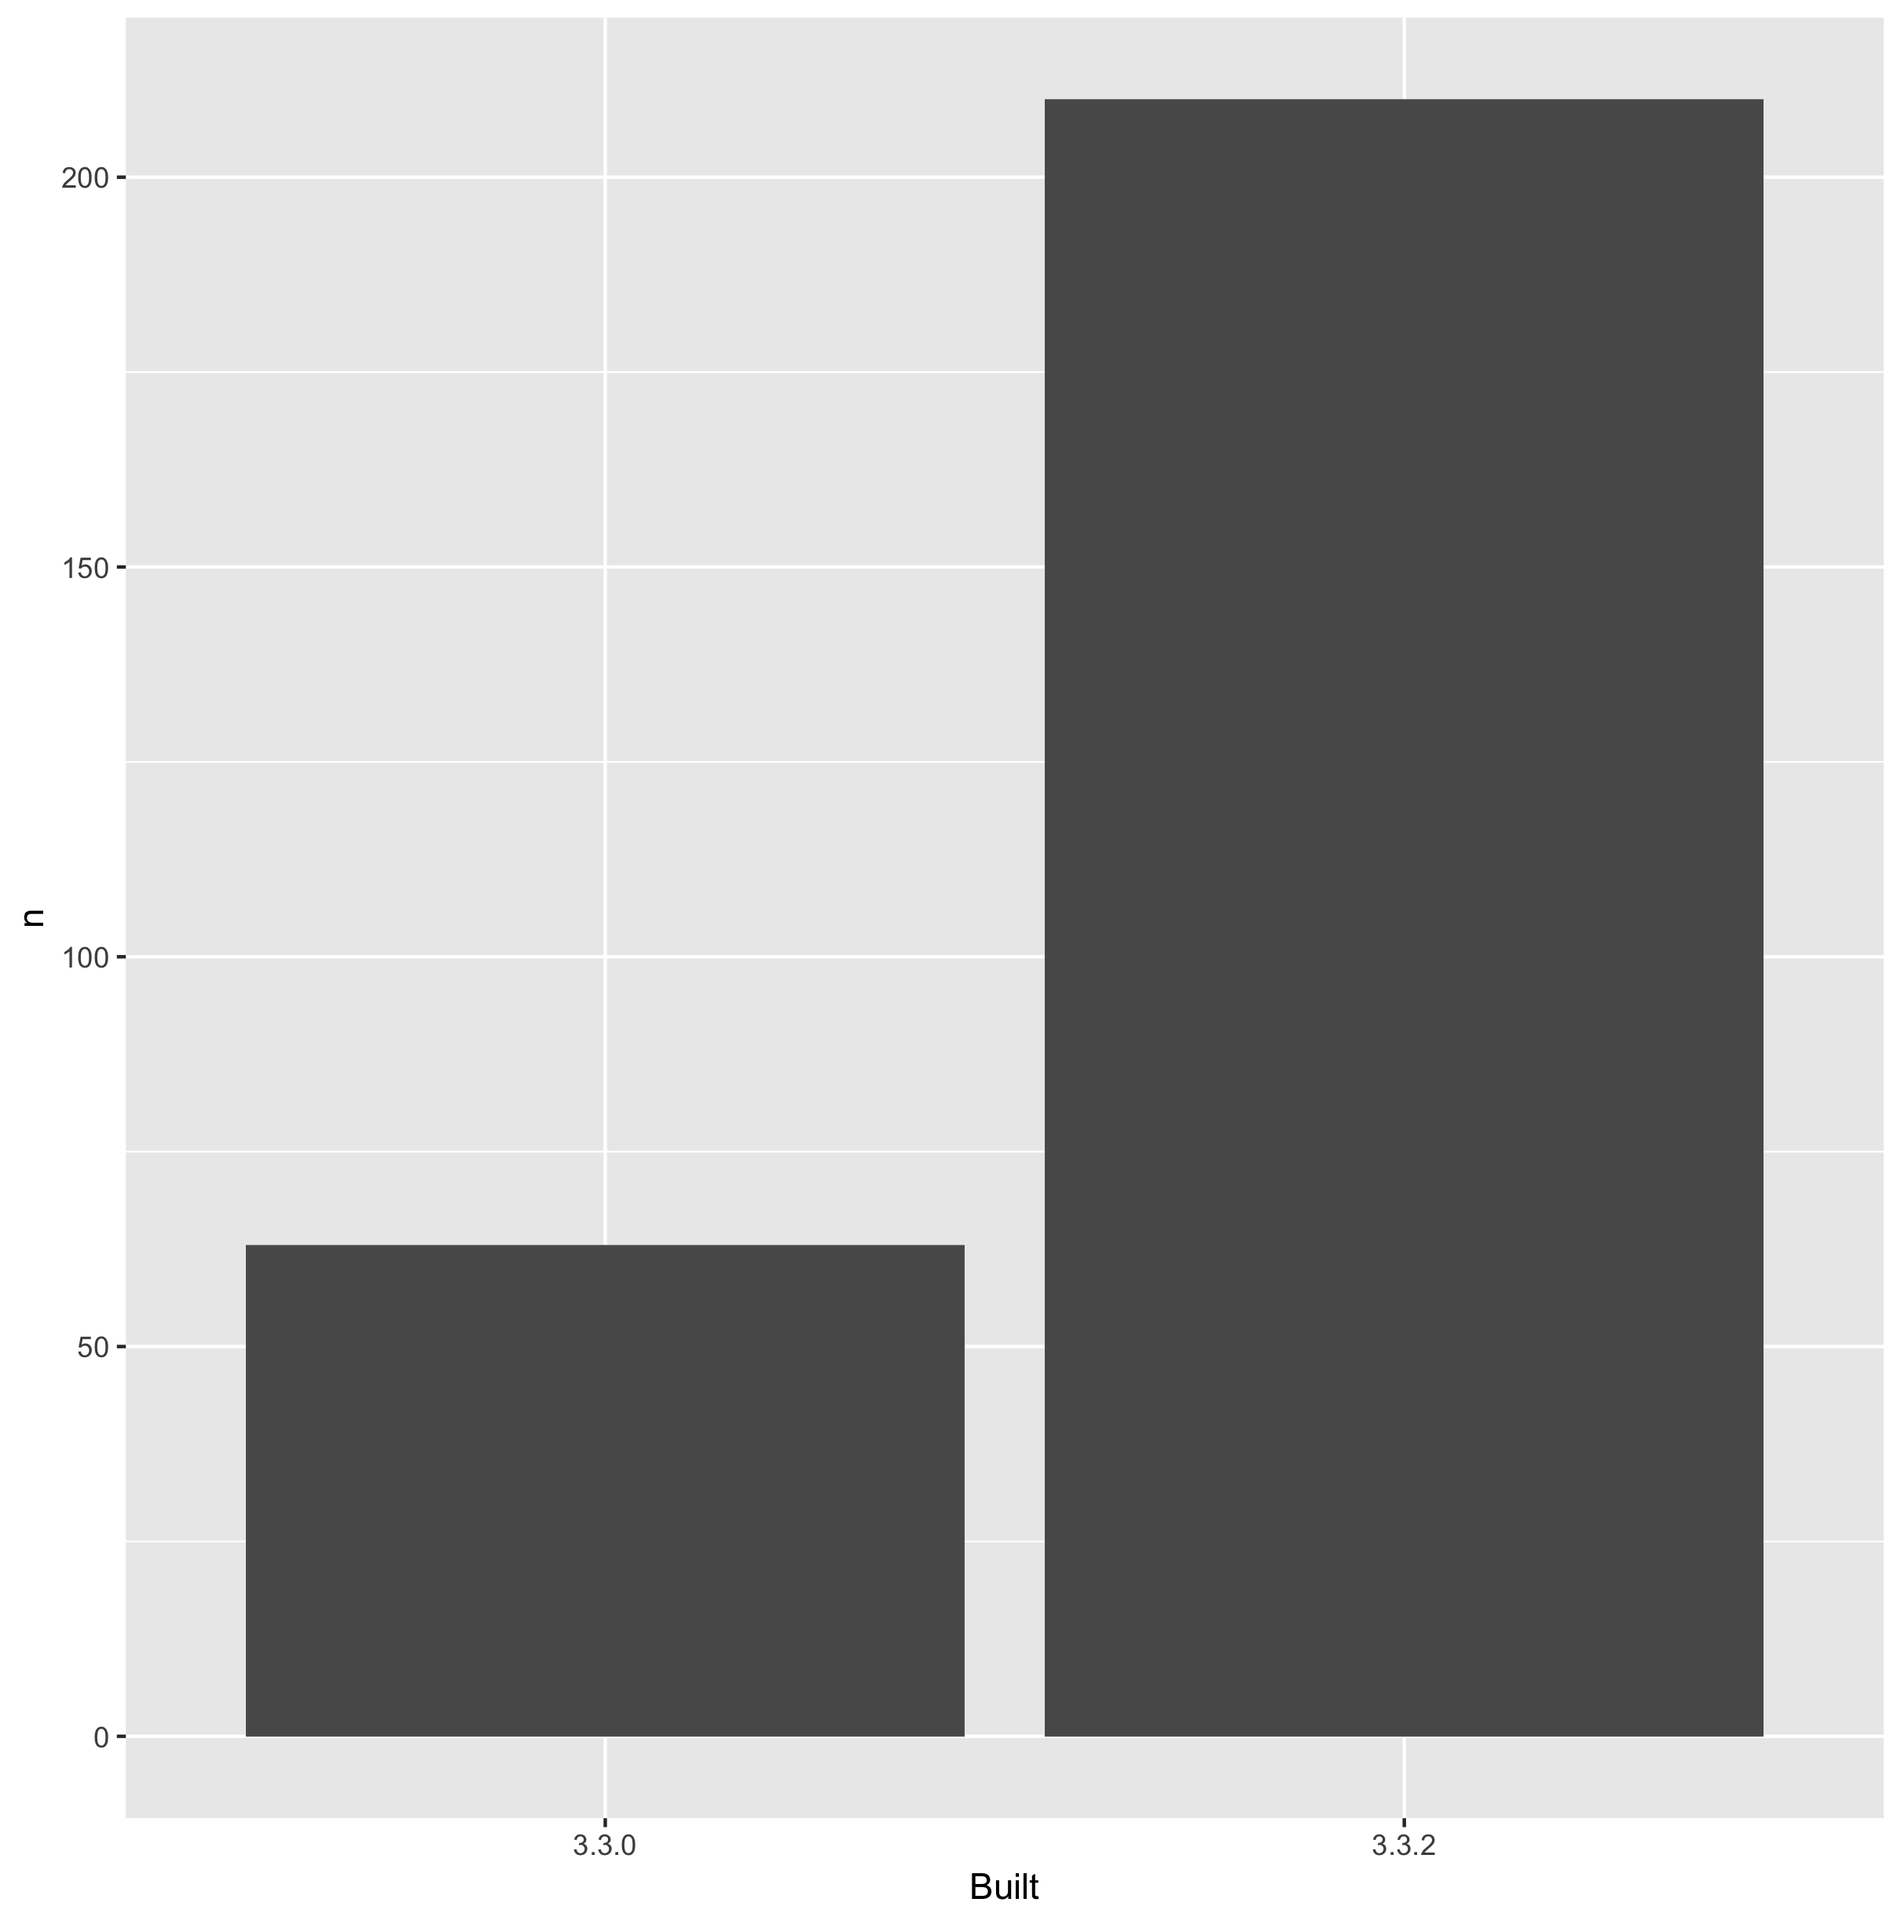
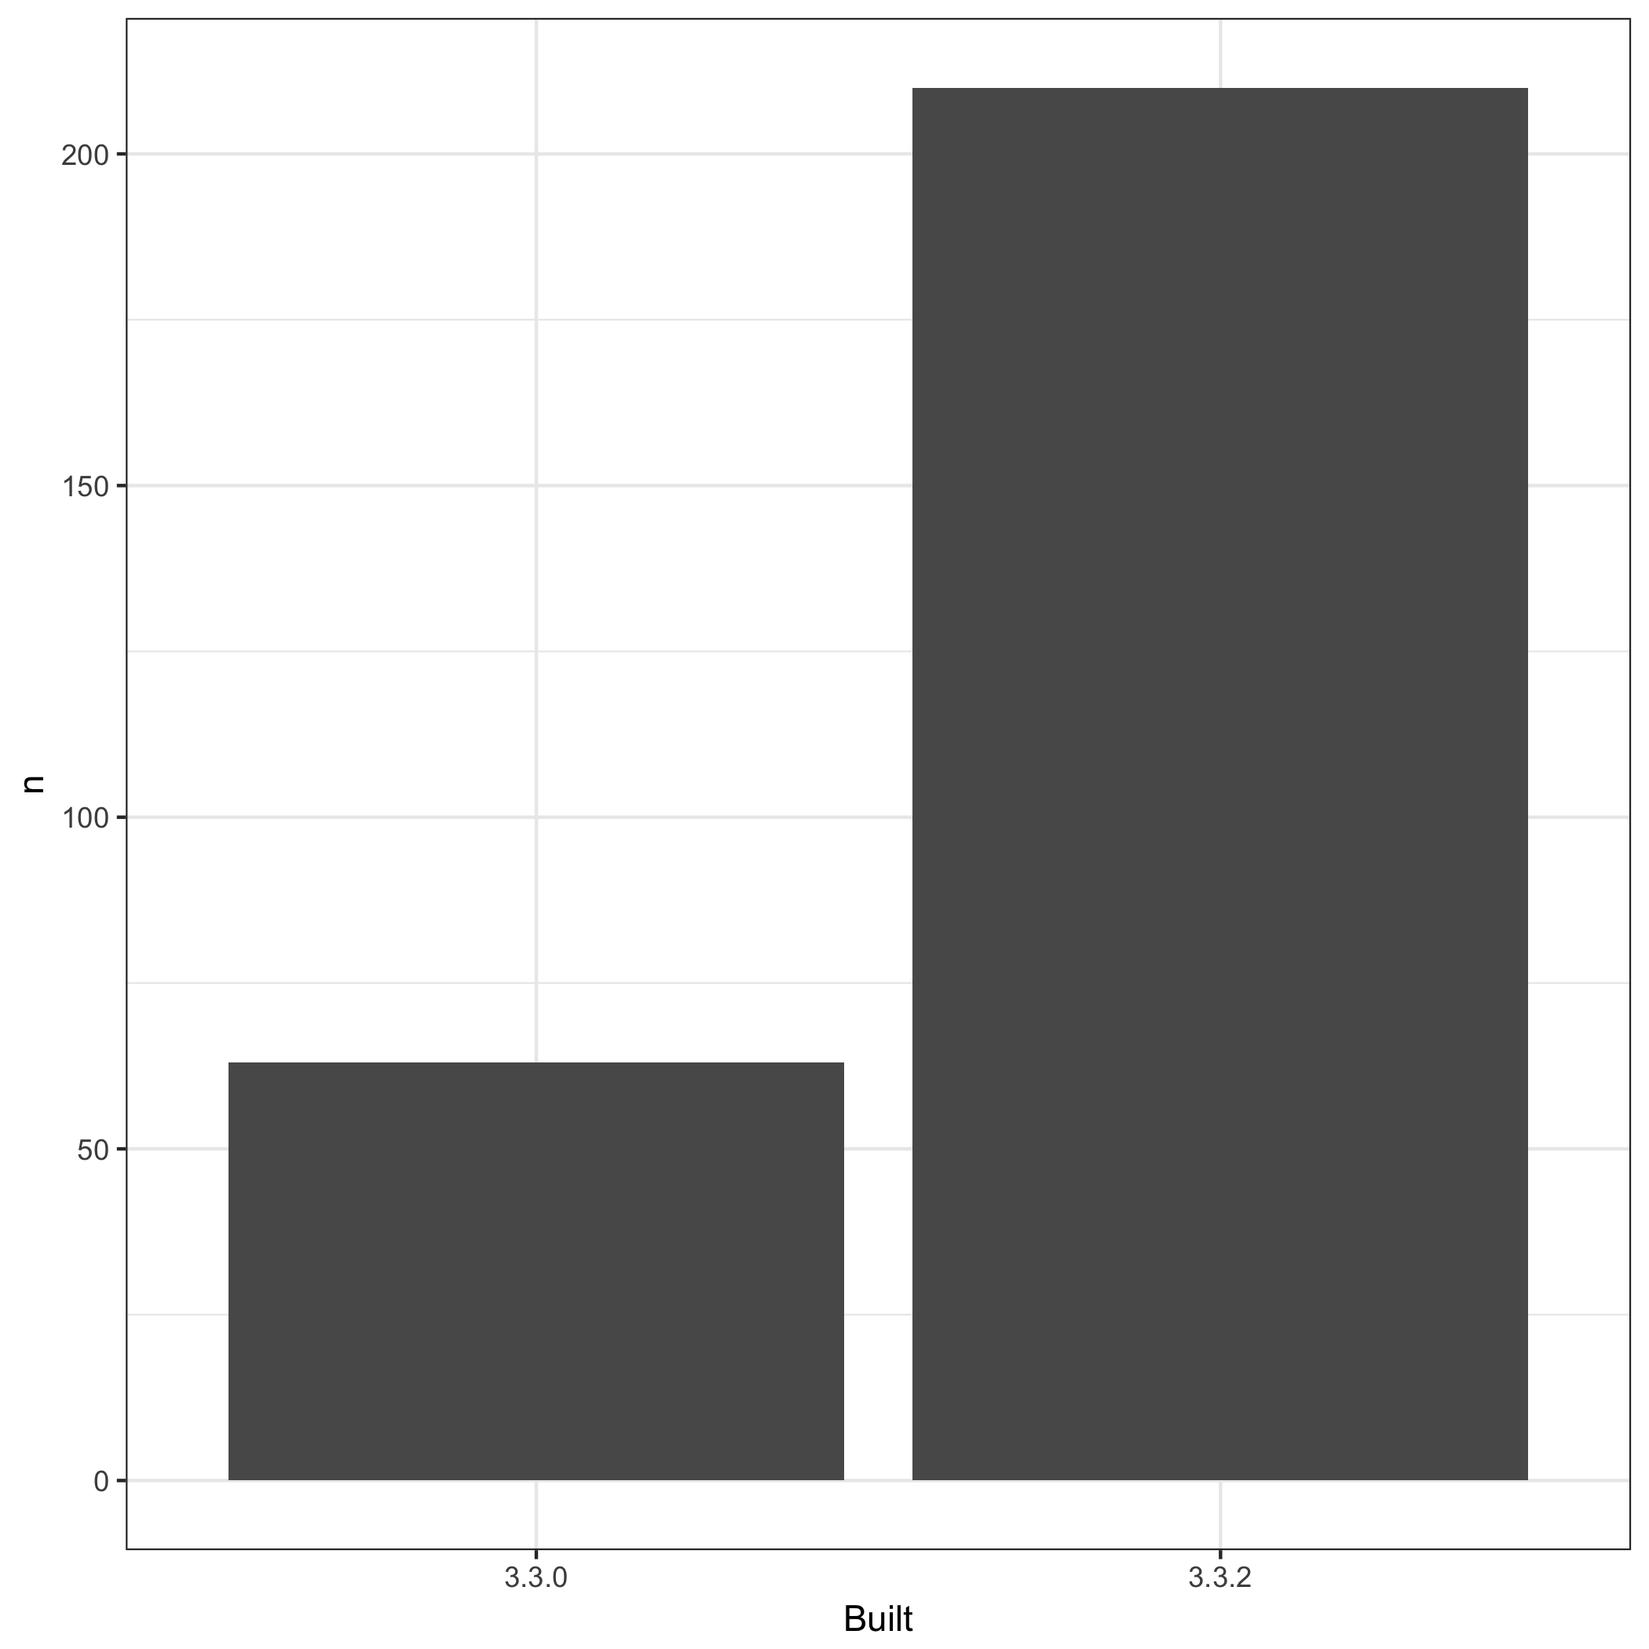
re-ran the plots, and updated the readme.md

diff --git a/README.md b/README.md
@@ -9,10 +9,7 @@ Workshop challenge checklist
 *As you complete tasks, you can ~~cross them out~~ by surrounding with `~~`.*
 
 -   Have a look around the files here. Where are the R scripts? What are the directories `data` and `figs` for?
--   Notice that this README is an `.Rmd` file. That means it could contain R code and will need to be rendered to create `README.md`.
--   Open [R/01\_write-installed-packages.R](R/01_write-installed-packages.R). Write the script as directed. Run it. Commit and push the current state.
--   Open [R/02\_wrangle-packages.R](R/02_wrangle-packages.R). Fill in the missing pieces of the script as directed. Run it. Commit and push the current state.
--   Open [R/03\_barchart-packages-built.R](R/03_barchart-packages-built.R). Fill in the missing pieces of the script as directed. Run it. Commit and push the current state.
+-   Notice that this README is an `.Rmd` file. That means it could contain R code and will need to be rendered to create `README.md`. ~~\* Open [R/01\_write-installed-packages.R](R/01_write-installed-packages.R). Write the script as directed. Run it. Commit and push the current state.~~ ~~\* Open [R/02\_wrangle-packages.R](R/02_wrangle-packages.R). Fill in the missing pieces of the script as directed. Run it. Commit and push the current state.~~ ~~\* Open [R/03\_barchart-packages-built.R](R/03_barchart-packages-built.R). Fill in the missing pieces of the script as directed. Run it. Commit and push the current state.~~
 -   Fill in the blanks below in this README, using the results stored elsewhere.
 -   If you get this far, write an R script to run the whole analysis and, perhaps, another script that does a `make clean` style reset.
 
@@ -21,9 +18,15 @@ Overview
 
 The goal of packages-report is to FINISH THIS SENTENCE.
 
-I have `FILL THIS IN!!!` add-on packages installed.
+I have `sum(apt_freqtable$n)` add-on packages installed.
 
 Here's how they break down in terms of which version of R they were built under, which is related to how recently they were updated on CRAN.
+
+<!--html_preserve-->
+
+<script type="application/json" data-for="a4ea2354b8e2">{"x":{"data":[{"orientation":"v","width":[0.9,0.9],"base":[0,0],"x":[1,2],"y":[63,210],"text":["Built: 3.3.0<br />n:  63","Built: 3.3.2<br />n: 210"],"type":"bar","marker":{"autocolorscale":false,"color":"rgba(89,89,89,1)","line":{"width":1.88976377952756,"color":"transparent"}},"showlegend":false,"xaxis":"x","yaxis":"y","hoverinfo":"text","frame":null}],"layout":{"margin":{"t":26.2283105022831,"r":7.30593607305936,"b":40.1826484018265,"l":43.1050228310502},"plot_bgcolor":"rgba(255,255,255,1)","paper_bgcolor":"rgba(255,255,255,1)","font":{"color":"rgba(0,0,0,1)","family":"","size":14.6118721461187},"xaxis":{"domain":[0,1],"type":"linear","autorange":false,"range":[0.4,2.6],"tickmode":"array","ticktext":["3.3.0","3.3.2"],"tickvals":[1,2],"categoryorder":"array","categoryarray":["3.3.0","3.3.2"],"nticks":null,"ticks":"outside","tickcolor":"rgba(51,51,51,1)","ticklen":3.65296803652968,"tickwidth":0.66417600664176,"showticklabels":true,"tickfont":{"color":"rgba(77,77,77,1)","family":"","size":11.689497716895},"tickangle":-0,"showline":false,"linecolor":null,"linewidth":0,"showgrid":true,"gridcolor":"rgba(235,235,235,1)","gridwidth":0.66417600664176,"zeroline":false,"anchor":"y","title":"Built","titlefont":{"color":"rgba(0,0,0,1)","family":"","size":14.6118721461187},"hoverformat":".2f"},"yaxis":{"domain":[0,1],"type":"linear","autorange":false,"range":[-10.5,220.5],"tickmode":"array","ticktext":["0","50","100","150","200"],"tickvals":[0,50,100,150,200],"categoryorder":"array","categoryarray":["0","50","100","150","200"],"nticks":null,"ticks":"outside","tickcolor":"rgba(51,51,51,1)","ticklen":3.65296803652968,"tickwidth":0.66417600664176,"showticklabels":true,"tickfont":{"color":"rgba(77,77,77,1)","family":"","size":11.689497716895},"tickangle":-0,"showline":false,"linecolor":null,"linewidth":0,"showgrid":true,"gridcolor":"rgba(235,235,235,1)","gridwidth":0.66417600664176,"zeroline":false,"anchor":"x","title":"n","titlefont":{"color":"rgba(0,0,0,1)","family":"","size":14.6118721461187},"hoverformat":".2f"},"shapes":[{"type":"rect","fillcolor":"transparent","line":{"color":"rgba(51,51,51,1)","width":0.66417600664176,"linetype":"solid"},"yref":"paper","xref":"paper","x0":0,"x1":1,"y0":0,"y1":1}],"showlegend":false,"legend":{"bgcolor":"rgba(255,255,255,1)","bordercolor":"transparent","borderwidth":1.88976377952756,"font":{"color":"rgba(0,0,0,1)","family":"","size":11.689497716895}},"hovermode":"closest","barmode":"relative"},"config":{"doubleClick":"reset","modeBarButtonsToAdd":[{"name":"Collaborate","icon":{"width":1000,"ascent":500,"descent":-50,"path":"M487 375c7-10 9-23 5-36l-79-259c-3-12-11-23-22-31-11-8-22-12-35-12l-263 0c-15 0-29 5-43 15-13 10-23 23-28 37-5 13-5 25-1 37 0 0 0 3 1 7 1 5 1 8 1 11 0 2 0 4-1 6 0 3-1 5-1 6 1 2 2 4 3 6 1 2 2 4 4 6 2 3 4 5 5 7 5 7 9 16 13 26 4 10 7 19 9 26 0 2 0 5 0 9-1 4-1 6 0 8 0 2 2 5 4 8 3 3 5 5 5 7 4 6 8 15 12 26 4 11 7 19 7 26 1 1 0 4 0 9-1 4-1 7 0 8 1 2 3 5 6 8 4 4 6 6 6 7 4 5 8 13 13 24 4 11 7 20 7 28 1 1 0 4 0 7-1 3-1 6-1 7 0 2 1 4 3 6 1 1 3 4 5 6 2 3 3 5 5 6 1 2 3 5 4 9 2 3 3 7 5 10 1 3 2 6 4 10 2 4 4 7 6 9 2 3 4 5 7 7 3 2 7 3 11 3 3 0 8 0 13-1l0-1c7 2 12 2 14 2l218 0c14 0 25-5 32-16 8-10 10-23 6-37l-79-259c-7-22-13-37-20-43-7-7-19-10-37-10l-248 0c-5 0-9-2-11-5-2-3-2-7 0-12 4-13 18-20 41-20l264 0c5 0 10 2 16 5 5 3 8 6 10 11l85 282c2 5 2 10 2 17 7-3 13-7 17-13z m-304 0c-1-3-1-5 0-7 1-1 3-2 6-2l174 0c2 0 4 1 7 2 2 2 4 4 5 7l6 18c0 3 0 5-1 7-1 1-3 2-6 2l-173 0c-3 0-5-1-8-2-2-2-4-4-4-7z m-24-73c-1-3-1-5 0-7 2-2 3-2 6-2l174 0c2 0 5 0 7 2 3 2 4 4 5 7l6 18c1 2 0 5-1 6-1 2-3 3-5 3l-174 0c-3 0-5-1-7-3-3-1-4-4-5-6z"},"click":"function(gd) { \n        // is this being viewed in RStudio?\n        if (location.search == '?viewer_pane=1') {\n          alert('To learn about plotly for collaboration, visit:\\n https://cpsievert.github.io/plotly_book/plot-ly-for-collaboration.html');\n        } else {\n          window.open('https://cpsievert.github.io/plotly_book/plot-ly-for-collaboration.html', '_blank');\n        }\n      }"}],"cloud":false},"source":"A","attrs":{"a4ea5b3f75e3":{"x":{},"y":{},"type":"bar"}},"cur_data":"a4ea5b3f75e3","visdat":{"a4ea5b3f75e3":["function (y) ","x"]},"highlight":{"on":"plotly_click","persistent":false,"dynamic":false,"selectize":false,"opacityDim":0.2,"selected":{"opacity":1}},"base_url":"https://plot.ly"},"evals":["config.modeBarButtonsToAdd.0.click"],"jsHooks":{"render":[{"code":"function(el, x) { var ctConfig = crosstalk.var('plotlyCrosstalkOpts').set({\"on\":\"plotly_click\",\"persistent\":false,\"dynamic\":false,\"selectize\":false,\"opacityDim\":0.2,\"selected\":{\"opacity\":1}}); }","data":null}]}}</script>
+<!--/html_preserve-->
+### add figure from file - COOOOL!!!
 
 ![](figs/built-barchart.png)
 
